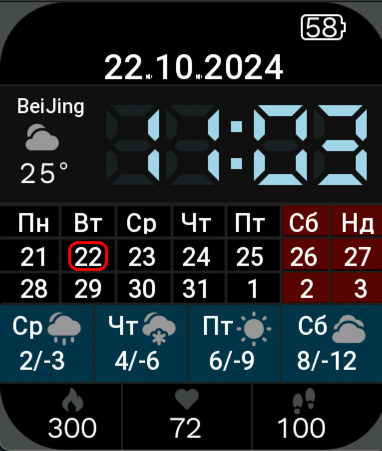
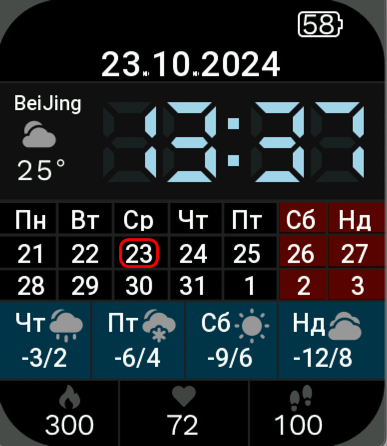
small refactoring

Changed region(s): [[0.0, 0.0, 1.0, 1.0], [0.0, 0.0583, 0.0288, 0.1166]]

diff --git a/watchface/weather_forecast.js b/watchface/weather_forecast.js
@@ -5,13 +5,13 @@ const refreshIn = 60 * 60 * 1000; // 1 hour in milliseconds
 const weekDays = getLangTable().weekNamesConfig
 
 let weatherWidgets = []
-let lastUpdatedWeather = new Date(1997, 1, 10);
+let lastUpdatedWeatherTime = new Date(1997, 1, 10);
 
 export function WeatherForecastWidget() {
     const currentTime = new Date();
 
     // Check if refreshIn has passed since the last weather update
-    if (currentTime - lastUpdatedWeather < refreshIn) {
+    if (currentTime - lastUpdatedWeatherTime < refreshIn) {
         return;
     }
 
@@ -21,7 +21,7 @@ export function WeatherForecastWidget() {
         weatherWidgets = []
     })
 
-    lastUpdatedWeather = currentTime
+    lastUpdatedWeatherTime = currentTime
     const weather = hmSensor.createSensor(hmSensor.id.WEATHER)
     const weatherData = weather.getForecastWeather()
     const forecastData = weatherData.forecastData
@@ -41,15 +41,18 @@ export function WeatherForecastWidget() {
     }));
 
     // forecast
-    let shift = 25
-    let tomorrow = new Date().getDay()
+    let startPositionX = 30;
+    let offsetX = 20;
+    let widthElement = 40;
+
+    let todayDay = new Date().getDay(); // day of the week
     for (let i = 1; i <= 4; i++) {
         const element = forecastData.data[i]
-        const weekDayIndex = (tomorrow + i + 6) % 7;
+        const weekDayIndex = (todayDay + i + 6) % 7;
         weatherWidgets.push(hmUI.createWidget(hmUI.widget.TEXT, {
-            x: shift - 20,
+            x: startPositionX - offsetX,
             y: 308,
-            w: 48,
+            w: widthElement,
             h: 30,
             color: colorWhite,
             text_size: 25,
@@ -59,18 +62,18 @@ export function WeatherForecastWidget() {
             text: weekDays[weekDayIndex]
         }));
         weatherWidgets.push(hmUI.createWidget(hmUI.widget.IMG, {
-            x: shift + 20,
+            x: startPositionX + offsetX,
             y: 308,
-            w: 50,
+            w: widthElement,
             h: 50,
             src: 'weather/' + element.index + '.png',
             show_level: hmUI.show_level.ONLY_NORMAL
         }));
         weatherWidgets.push(hmUI.createWidget(hmUI.widget.TEXT, {
-            x: shift - 22,
-            y: 343,
-            w: 80,
-            h: 30,
+            x: startPositionX - 25,
+            y: 340,
+            w: widthElement * 2,
+            h: 40,
             color: colorWhite,
             text_size: 25,
             align_h: hmUI.align.CENTER_H,
@@ -78,6 +81,6 @@ export function WeatherForecastWidget() {
             text_style: hmUI.text_style.NONE,
             text: element.low + "/" + element.high
         }));
-        shift = shift + 95
+        startPositionX += 95
     }
 }

diff --git a/watchface/calendar.js b/watchface/calendar.js
@@ -7,7 +7,7 @@ let calendarWidget = []
 let lastUpdatedCalendar = new Date(1997, 1, 10);
 
 export function CalendarWidget() {
-    if (lastUpdatedCalendar.getDay() === new Date().getDay()) {
+    if (lastUpdatedCalendar === new Date()) {
         return;
     }
 
@@ -16,6 +16,11 @@ export function CalendarWidget() {
         calendarWidget = []
     })
 
+    const time = hmSensor.createSensor(hmSensor.id.TIME)
+    // Get the current month and year (assuming `time` has the current day, month, year)
+    let currentMonth = time.month; // 1 for January, 2 for February, etc
+    let currentYear = time.year; // Current year
+    let currentDay = time.day; // Current day
 
     lastUpdatedCalendar = new Date();
 
@@ -40,11 +45,6 @@ export function CalendarWidget() {
         shift = shift + 54;
     });
 
-    const time = hmSensor.createSensor(hmSensor.id.TIME)
-    // Get the current month and year (assuming `time` has the current day, month, year)
-    let currentMonth = time.month; // 1 for January, 2 for February, etc
-    let currentYear = time.year; // Current year
-    let currentDay = time.day; // Current day
 
     // date on top dd.mm.yyyy
     calendarWidget.push(hmUI.createWidget(hmUI.widget.TEXT, {
@@ -57,7 +57,7 @@ export function CalendarWidget() {
         align_h: hmUI.align.CENTER_H,
         align_v: hmUI.align.CENTER_V,
         text_style: hmUI.text_style.NONE,
-        text: time.day + "." + time.month + "." + time.year
+        text: currentDay + "." + currentMonth + "." + currentYear
     }));
 
     let dates = getNextTwoWeeksDates(currentDay, currentMonth, currentYear)

diff --git a/watchface/index.js b/watchface/index.js
@@ -196,14 +196,14 @@ try {
                 })
             },
             onInit() {
-                logger.log('index page.js on init invoke');
+                logger.log('calendar init invoke');
             },
             build() {
                 this.init_view();
-                logger.log('index page.js on ready invoke');
+                logger.log('calendar on ready invoke');
             },
             onDestroy() {
-                logger.log('index page.js on destroy invoke');
+                logger.log('calendar on destroy invoke');
             }
         });
     })());
